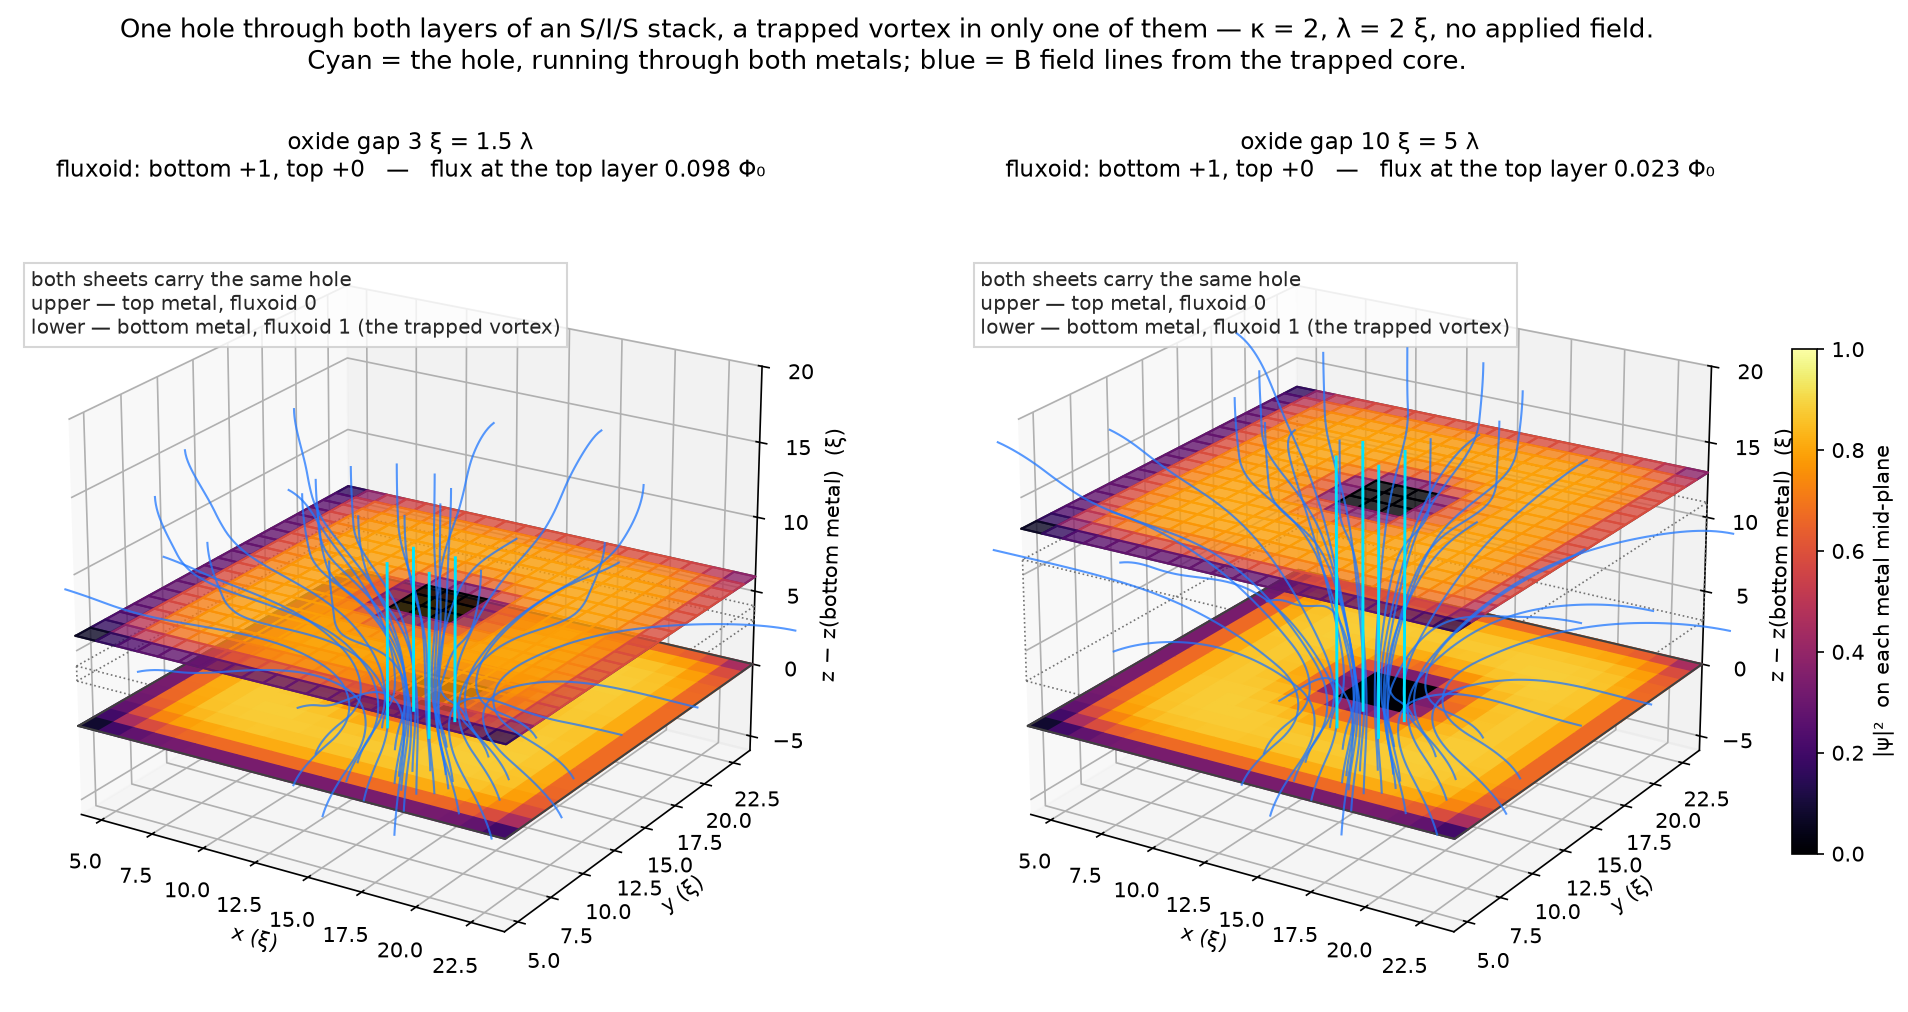
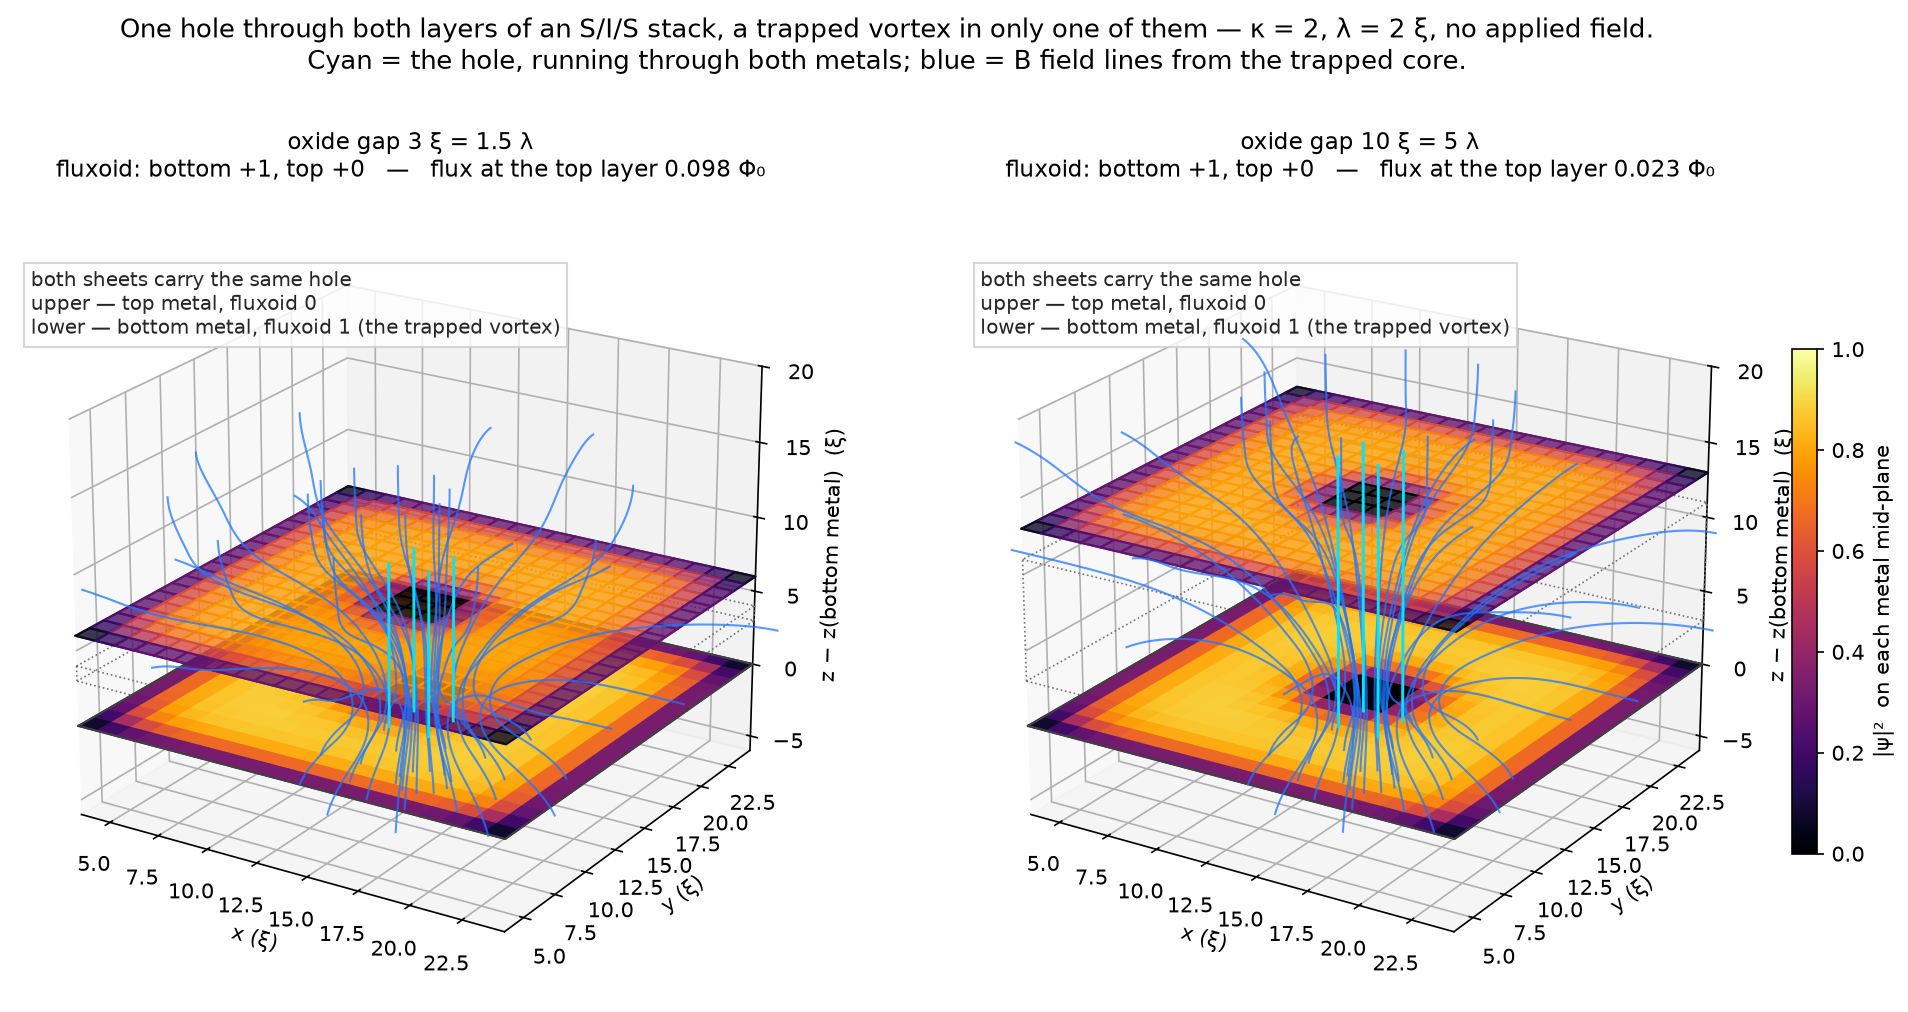
fix(docs): draw the isometric sheets on cell edges, so a symmetric film looks symmetric
`plot_surface` colours the quad *between* nodes i and i+1 with
`facecolors[i, j]`, so an n x m grid becomes an (n-1) x (m-1) quad mesh.
Passing node coordinates therefore shifted every colour half a cell towards +x
and +y and dropped the last row and column entirely: on the 28-node grid, 400
of the film's 441 cells reached the canvas. The visible symptom was a lopsided
edge -- the vacuum-adjacent dark band drawn in full on the low side of each
sheet and one cell short on the high side -- on a device that is exactly
mirror-symmetric.

The mesh and the physics were never asymmetric. The material mask is exactly
mirror-symmetric in x and y, the film spans x = 4..24 centred on 14 with three
vacuum nodes either side, and |psi|^2 is mirror-symmetric to 4e-16 in y (4e-6
in x, from the seeded vortex's own arctan2 branch, not the boundary). Only the
picture was wrong.

Paint on cell edges instead, with the colour array padded by the row and column
`plot_surface` never reads. All 441 cells are now drawn, each centred on the
node it belongs to, and the painted sheet spans 3.5..24.5 -- centred on the
film at 14.0.

`test_isometric_sheet_is_drawn_symmetrically` guards both halves: the painted
extent must straddle the film centre, and the quad count must equal the data
cell count. On the old painter it fails with "64 quads drawn for 81 data
cells".

Every diagnostic is unchanged (flux at the top layer still 0.098 -> 0.078 ->
[…]

diff --git a/docs/figures/test_figures.py b/docs/figures/test_figures.py
@@ -9,7 +9,14 @@ from __future__ import annotations
 import importlib.util
 from pathlib import Path
 
+import matplotlib
+import numpy as np
 import pytest
+
+matplotlib.use("Agg")
+
+import matplotlib.pyplot as plt  # noqa: E402
+from matplotlib.colors import Normalize  # noqa: E402
 
 FIGURES_DIR = Path(__file__).parent
 
@@ -62,3 +69,58 @@ def test_figure_smoke(script_name, expected_files, tmp_path):
         p = tmp_path / fname
         assert p.exists(), f"{p} does not exist"
         assert p.stat().st_size > 0, f"{p} is empty"
+
+
+def test_isometric_sheet_is_drawn_symmetrically():
+    """A mirror-symmetric film must be painted as a mirror-symmetric sheet.
+
+    ``plot_surface`` colours the quad *between* nodes ``i`` and ``i+1`` with
+    ``facecolors[i, j]``, turning an n x m grid into an (n-1) x (m-1) quad
+    mesh.  Handing it node coordinates therefore shifts every colour half a
+    cell towards +x and +y and drops the last row and column, which on a
+    symmetric film draws the vacuum-adjacent dark band in full on the low
+    edge and one cell short on the high edge.
+
+    Both halves of that are checked here: the painted extent must straddle
+    the film centre, and every data cell must reach the canvas.
+    """
+    mod = _load_module("sis_vortex_trapping_3d")
+    params, device, trilayer = mod._build(3.0, 1.0, width=8.0, margin=2.0, pad=2.0)
+    mod._carve_hole(params, device, trilayer)
+    slice_z = mod._layer_midplanes(trilayer)[0]
+
+    nx, ny, nz = mod._interior_shape(params)
+
+    class _Stub:
+        """Only ``psi(-1)`` is read by the painter."""
+
+        def psi(self, step: int = -1):
+            return np.ones(nx * ny * nz, dtype=complex)
+
+    fig = plt.figure()
+    ax = fig.add_subplot(projection="3d")
+    try:
+        x0, x1, y0, y1 = mod._paint_layer(
+            ax, params, device, _Stub(), slice_z,
+            plt.get_cmap("inferno"), Normalize(0.0, 1.0),
+        )
+        centre_x = params.Nx * params.hx / 2.0
+        centre_y = params.Ny * params.hy / 2.0
+        assert x0 < centre_x < x1 and y0 < centre_y < y1
+        assert (x0 + x1) / 2 == pytest.approx(centre_x, abs=1e-12), (
+            f"sheet spans {x0}..{x1}, not centred on the film at {centre_x}"
+        )
+        assert (y0 + y1) / 2 == pytest.approx(centre_y, abs=1e-12), (
+            f"sheet spans {y0}..{y1}, not centred on the film at {centre_y}"
+        )
+
+        i0, i1, j0, j1 = mod._film_extent(params, device, slice_z)
+        expected = (i1 - i0) * (j1 - j0)
+        assert expected > 0
+        drawn = len(ax.collections[0].get_facecolors())
+        assert drawn == expected, (
+            f"{drawn} quads drawn for {expected} data cells — "
+            "plot_surface is dropping the high edge"
+        )
+    finally:
+        plt.close(fig)

diff --git a/docs/figures/sis_vortex_trapping_3d.py b/docs/figures/sis_vortex_trapping_3d.py
@@ -410,16 +410,36 @@ def _film_extent(params, device, slice_z: int):
 
 def _paint_layer(ax, params, device, solution, slice_z, cmap, norm, *, alpha=1.0,
                  z_offset=0.0):
-    """Paint |psi|^2 of one layer as a horizontal sheet at its own height."""
+    """Paint |psi|^2 of one layer as a horizontal sheet at its own height.
+
+    Each node is drawn as the cell it owns, centred on its own coordinate,
+    which takes some care.  ``plot_surface`` colours the quad *between* nodes
+    ``i`` and ``i+1`` with ``facecolors[i, j]``, so an n x m grid becomes an
+    (n-1) x (m-1) quad mesh: passing node coordinates straight in would shift
+    every colour half a cell towards +x and +y and silently drop the last row
+    and column altogether.  On a film that is mirror-symmetric about its own
+    centre that shows up as a lopsided edge -- the vacuum-adjacent dark band
+    drawn in full on the low side and one cell short on the high side.
+
+    Passing cell *edges* instead, with the colour array padded by the row and
+    column ``plot_surface`` never reads, draws all n x m values in the right
+    places and keeps a symmetric sheet symmetric.
+    """
     nx, ny, nz = _interior_shape(params)
     xs, ys, zs = _interior_axes(params)
     i0, i1, j0, j1 = _film_extent(params, device, slice_z)
     psi2 = np.abs(solution.psi(-1).reshape(nx, ny, nz)[i0:i1, j0:j1, slice_z]) ** 2
-    X, Y = np.meshgrid(xs[i0:i1], ys[j0:j1], indexing="ij")
+
+    x_edges = np.append(xs[i0:i1] - 0.5 * params.hx, xs[i1 - 1] + 0.5 * params.hx)
+    y_edges = np.append(ys[j0:j1] - 0.5 * params.hy, ys[j1 - 1] + 0.5 * params.hy)
+    X, Y = np.meshgrid(x_edges, y_edges, indexing="ij")
+
+    colours = np.zeros(X.shape + (4,))
+    colours[:-1, :-1] = cmap(norm(psi2))
     ax.plot_surface(X, Y, np.full_like(X, zs[slice_z] - z_offset),
-                    facecolors=cmap(norm(psi2)), shade=False,
+                    facecolors=colours, shade=False,
                     rstride=1, cstride=1, alpha=alpha, zorder=1)
-    return xs[i0], xs[i1 - 1], ys[j0], ys[j1 - 1]
+    return x_edges[0], x_edges[-1], y_edges[0], y_edges[-1]
 
 
 def _outline(ax, x0, x1, y0, y1, z, **kw):
